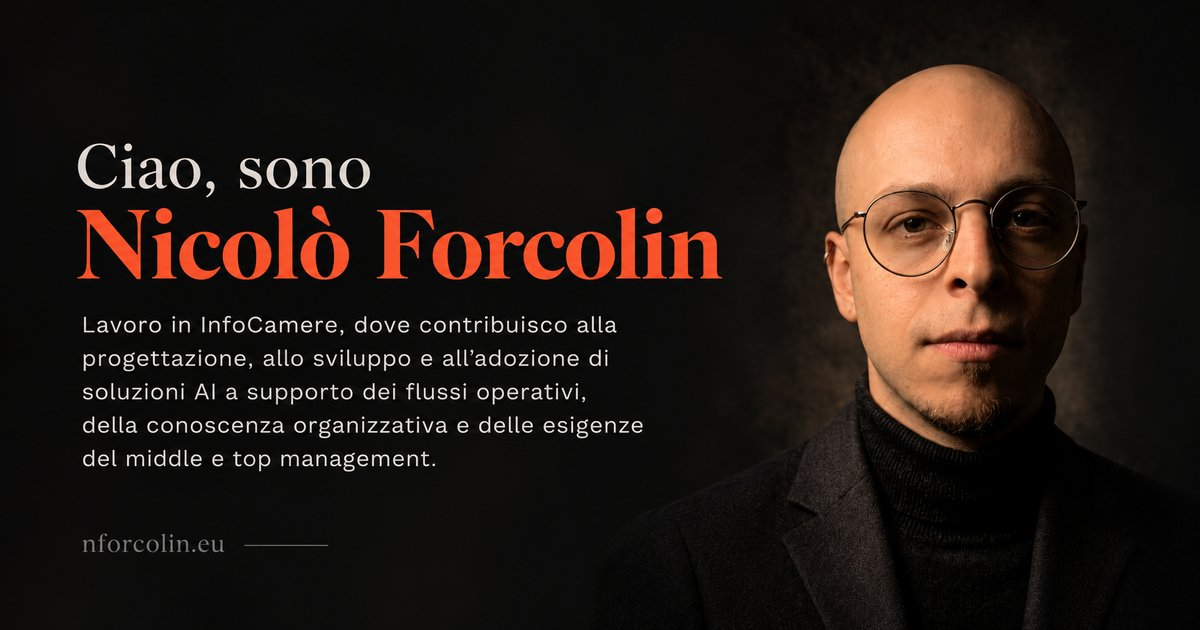
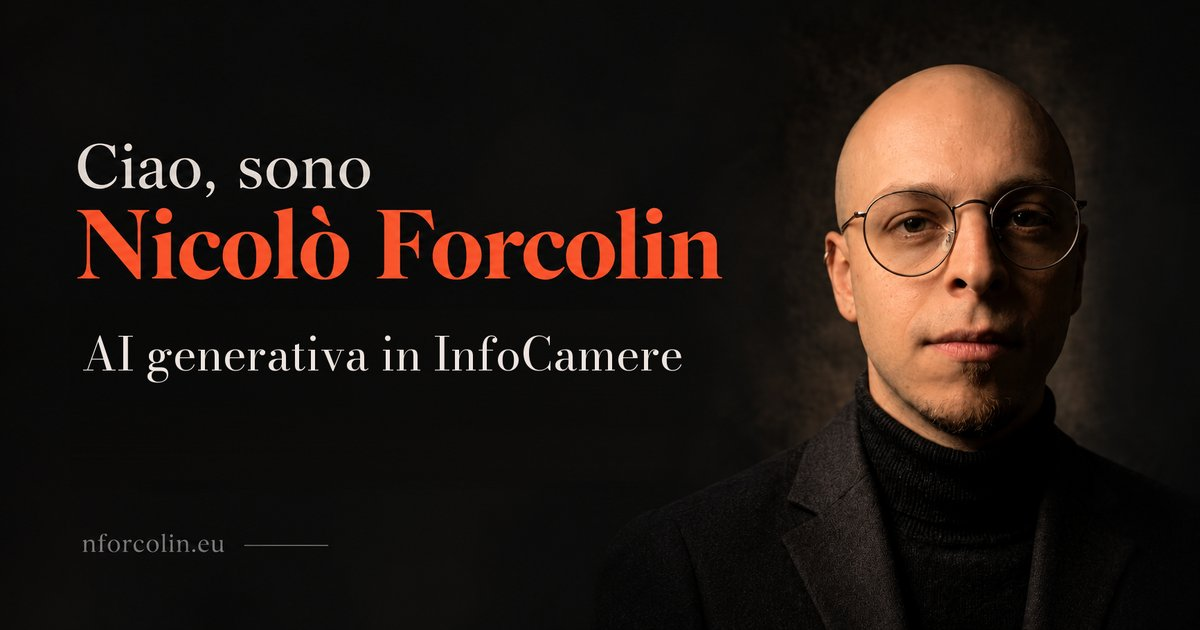
content: remove unapproved internal InfoCamere metrics
The internal figures were not approved for publication:
- 13 people in the Operating Unit, 4 hours and 2.5 hours saved,
  35 colleagues, zero cost vs more expensive alternatives
- Replaced with qualitative wording in IT and EN, static HTML and i18n
- og-linkedin.jpg rebuilt: old paragraph removed, new line
  "AI generativa in InfoCamere" set in Bodoni Moda (site font)
- Regression test fails the build if those figures come back

Claude-Session: https://claude.ai/code/session_0117AcoBap8EG9nBtxEV3N1i

Changed region(s): [[0.0617, 0.4825, 0.5858, 0.6333], [0.0617, 0.6635, 0.555, 0.754]]

diff --git a/script.js b/script.js
@@ -38,7 +38,7 @@
       rag_fig_src4:"Procedure",
       how_lead:"Il sistema integra contenuti aziendali autorizzati, li rende ricercabili e fornisce risposte con riferimenti alle fonti.",
       case_how_label:"Come funziona",
-      c1_feedback:"Oggi lo strumento è usato da un’intera Unità Operativa, 13 persone compreso il Responsabile, che ne danno un riscontro positivo.",
+      c1_feedback:"Oggi lo strumento è usato da un’intera Unità Operativa, che ne dà un riscontro positivo.",
       case_issues_label:"Problematiche e feedback",
       outside_desc:"Audiofilo e musicista.",
       outside_label:"Fuori dal lavoro",
@@ -54,11 +54,11 @@
       nf_error:"Se pensi che sia un errore, scrivimi:",
       sec_percorso:"Percorso",
       xp5_link:"Vedi le iniziative",
-      xp5_desc:"Su richiesta di 35 colleghi li ho affiancati, in gruppo e singolarmente, nell’uso dell’AI: i loro tool in produzione sono migliorati, più strumenti sono stati riuniti in uno solo e sono arrivate nuove richieste. Sono Social Ambassador di InfoCamere e nel 2026 ho fornito advisory sull’AI al CEO di DABO.",
+      xp5_desc:"Su richiesta di colleghi di altre Unità li ho affiancati, in gruppo e singolarmente, nell’uso dell’AI: i loro tool in produzione sono migliorati, più strumenti sono stati riuniti in uno solo e sono arrivate nuove richieste. Sono Social Ambassador di InfoCamere e nel 2026 ho fornito advisory sull’AI al CEO di DABO.",
       xp5_title:"Advisory e adozione dell’AI",
       xp5_period:"Dal 2025",
       xp4_link:"Leggi il progetto RAG",
-      xp4_desc:"Con il mio Responsabile ho definito le esigenze operative; ho scelto lo strumento, realizzato e messo in produzione due sistemi RAG, li ho unificati e ne seguo fonti, webapp, test e adozione, coordinandomi con altre Unità e con il middle e top management. Oggi lo usa un’intera Unità Operativa e su una criticità fa risparmiare 4 ore nella gestione e 2 ore e mezza nell’analisi post evento. In parallelo ho condotto una sperimentazione di modelli AI in locale.",
+      xp4_desc:"Con il mio Responsabile ho definito le esigenze operative; ho scelto lo strumento, realizzato e messo in produzione due sistemi RAG, li ho unificati e ne seguo fonti, webapp, test e adozione, coordinandomi con altre Unità e con il middle e top management. Oggi lo usa un’intera Unità Operativa e riduce il tempo per gestire una criticità e per l’analisi post evento. In parallelo ho condotto una sperimentazione di modelli AI in locale.",
       xp4_title:"Responsabile del RAG aziendale, InfoCamere",
       xp4_period:"Dal 2026",
       xp3_desc:"Supporto operativo all’infrastruttura IT del sistema camerale italiano, con attenzione all’affidabilità del servizio.",
@@ -71,7 +71,7 @@
       xp1_title:"Consulente assicurativo, Assicurazioni Generali",
       xp1_period:"Ott 2020 – Feb 2022",
       adv_internal_desc:"Su loro richiesta, in incontri di gruppo e individuali, ho mostrato come usare i propri strumenti di lavoro e l’AI per rendere più efficaci i tool in produzione. Dopo gli incontri i loro tool sono migliorati, più strumenti sono stati riuniti in uno solo e sono arrivate nuove richieste.",
-      adv_internal_title:"Consulenza interna sull’AI per 35 colleghi",
+      adv_internal_title:"Consulenza interna sull’AI per i colleghi",
       adv_internal_meta:"Dal 2025",
       advisory_internal_label:"Advisory interna",
       advisory_section:"Advisory",
@@ -81,7 +81,7 @@
       c1_role2_k:"In prima persona:",
       c1_role1_v:"definizione delle esigenze operative.",
       c1_role0_k:"Le mie decisioni:",
-      c1_role0_v:"scelta dello strumento, a costo nullo rispetto ad alternative finanziariamente più esose.",
+      c1_role0_v:"scelta dello strumento.",
       c1_role1_k:"Con il mio Responsabile:",
       c1_role4_k:"Con altre Unità, middle e top management:",
       c1_role4_v:"coordinamento del progetto.",
@@ -92,12 +92,12 @@
       credentials_note:"Questi riferimenti distinguono le credenziali dai programmi di community e dallo stato di iscrizione. Il lavoro applicato è documentato nelle pagine dei progetti.",
       hero_greeting:"Ciao, sono Nicolò Forcolin",
       hero_intro:[
-        [{t:"Porto l’AI generativa nel lavoro quotidiano di InfoCamere. Ho scelto e messo in produzione l’assistente AI che oggi usa un’intera Unità Operativa, 13 persone: sulla gestione di una criticità fa risparmiare 4 ore."}],
-        [{t:"Su richiesta di 35 colleghi di altre Unità li ho affiancati nell’uso dell’AI."}]
+        [{t:"Porto l’AI generativa nel lavoro quotidiano di InfoCamere. Ho scelto e messo in produzione l’assistente AI che oggi usa un’intera Unità Operativa per ritrovare in fretta le informazioni quando gestisce una criticità."}],
+        [{t:"Su richiesta di colleghi di altre Unità li ho affiancati nell’uso dell’AI."}]
       ],
       skip_to_content:"Vai al contenuto",
       page_title:"Nicolò Forcolin | AI generativa in InfoCamere",
-      page_description:"Porto l’AI generativa nel lavoro quotidiano di InfoCamere. L’assistente AI che ho scelto e messo in produzione oggi lo usa un’intera Unità Operativa e fa risparmiare 4 ore sulla gestione di una criticità.",
+      page_description:"Porto l’AI generativa nel lavoro quotidiano di InfoCamere. L’assistente AI che ho scelto e messo in produzione oggi lo usa un’intera Unità Operativa per gestire le criticità.",
       rag_step1_kicker:"Fonti iniziali",
       rag_step1_title:"Documentazione e storico delle criticità",
       rag_step1_desc:"Due raccolte di conoscenza consultate separatamente.",
@@ -147,7 +147,7 @@
       sec_localai_title:"AI in locale",
       sec_lavori:"Progetti",
       club_desc:"Community professionale dedicata a relazioni rispettose e a una leadership gentile.",
-      c1_summary:"Ho unificato due sistemi RAG già funzionanti per offrire un unico punto di accesso. Ho integrato diverse fonti aziendali. Nella webapp gli utenti pongono domande in linguaggio naturale: la risposta presenta prima le informazioni utilizzabili subito, poi possibili cause, procedure, casi simili e link alle fonti. Lo strumento scelto ha costo nullo.",
+      c1_summary:"Ho unificato due sistemi RAG già funzionanti per offrire un unico punto di accesso. Ho integrato diverse fonti aziendali. Nella webapp gli utenti pongono domande in linguaggio naturale: la risposta presenta prima le informazioni utilizzabili subito, poi possibili cause, procedure, casi simili e link alle fonti.",
       c2_summary:"Nelle prove esplorative, le risposte miglioravano rispetto ai modelli di partenza e risultavano corrette nella maggior parte delle situazioni osservate. Restavano informazioni inventate, meno frequenti nei modelli più performanti. Queste osservazioni non costituiscono una misura di accuratezza generalizzabile. Era un test: per ora si è scelto di non portarlo avanti.",
       case_results_label:"Risultati e limiti",
       case_problem_label:"Problema",
@@ -155,8 +155,8 @@
       case_learning_label:"Cosa ho imparato",
       case1_title:"RAG aziendale",
       c1_status:"In produzione dal 2026",
-      c1_problem:"Informazioni utili distribuite tra strumenti diversi. Ricostruire il contesto di una criticità richiedeva ricerche separate e tempo, mentre la risoluzione doveva essere rapida. Il costo andava contenuto, rispetto ad alternative finanziariamente più esose.",
-      c1_impact:"4 ore risparmiate sulla gestione di una criticità e 2 ore e mezza sull’analisi post evento, per il Service Desk e l’Incident & Problem Management.",
+      c1_problem:"Informazioni utili distribuite tra strumenti diversi. Ricostruire il contesto di una criticità richiedeva ricerche separate e tempo, mentre la risoluzione doveva essere rapida. Il costo andava contenuto.",
+      c1_impact:"Meno tempo per gestire una criticità e per l’analisi post evento, per il Service Desk e l’Incident & Problem Management.",
       c1_learning:"Dopo il rilascio, alcuni utenti continuavano a cercare a mano. Sono emersi rallentamenti e lacune nei dati: un modello funzionante non bastava. Ho lavorato sulla documentazione operativa e parlando direttamente con gli utenti. Prima di ampliare un RAG servono fonti affidabili e istruzioni chiare sul suo uso.",
       case2_title:"Sperimentazione AI in locale",
       c2_status:"Sperimentazione conclusa nel 2026",
@@ -239,7 +239,7 @@
       rag_fig_src4:"Procedures",
       how_lead:"The system brings together authorised company content, makes it searchable and answers with references to the sources.",
       case_how_label:"How it works",
-      c1_feedback:"Today the tool is used by an entire Operating Unit, 13 people including its Manager, and their feedback is positive.",
+      c1_feedback:"Today the tool is used by an entire Operating Unit, and their feedback is positive.",
       case_issues_label:"Issues and feedback",
       outside_desc:"Audiophile and musician.",
       outside_label:"Outside work",
@@ -255,11 +255,11 @@
       nf_error:"If you think this is a mistake, write to me:",
       sec_percorso:"Experience",
       xp5_link:"See the initiatives",
-      xp5_desc:"At the request of 35 colleagues I supported them, in groups and one to one, in using AI: their production tools improved, several tools were merged into one and new requests came in. I am an InfoCamere Social Ambassador, and in 2026 I advised the CEO of DABO on AI.",
+      xp5_desc:"At the request of colleagues from other units, I supported them, in groups and one to one, in using AI: their production tools improved, several tools were merged into one and new requests came in. I am an InfoCamere Social Ambassador, and in 2026 I advised the CEO of DABO on AI.",
       xp5_title:"AI advisory and adoption",
       xp5_period:"Since 2025",
       xp4_link:"Read the RAG project",
-      xp4_desc:"With my manager I defined the operational needs; I chose the tool, built two RAG systems, put them into production and unified them, and I look after their sources, web app, testing and adoption, working with other units and with middle and top management. Today an entire Operating Unit uses it, and on an incident it saves 4 hours in handling and 2.5 hours in post-incident analysis. In parallel I ran an experiment with local AI models.",
+      xp4_desc:"With my manager I defined the operational needs; I chose the tool, built two RAG systems, put them into production and unified them, and I look after their sources, web app, testing and adoption, working with other units and with middle and top management. Today an entire Operating Unit uses it, and it cuts the time needed to handle an incident and to analyse it afterwards. In parallel I ran an experiment with local AI models.",
       xp4_title:"Enterprise RAG owner, InfoCamere",
       xp4_period:"Since 2026",
       xp3_desc:"Operational support for the IT infrastructure of the Italian Chambers of Commerce system, with a focus on service reliability.",
@@ -272,7 +272,7 @@
       xp1_title:"Insurance advisor, Assicurazioni Generali",
       xp1_period:"Oct 2020 – Feb 2022",
       adv_internal_desc:"At their request, in group and one-to-one sessions, I showed how to use their own work tools and AI to make production tools more effective. Afterwards their tools improved, several tools were merged into one and new requests came in.",
-      adv_internal_title:"Internal AI advisory for 35 colleagues",
+      adv_internal_title:"Internal AI advisory for colleagues",
       adv_internal_meta:"Since 2025",
       advisory_internal_label:"Internal advisory",
       advisory_section:"Advisory",
@@ -282,7 +282,7 @@
       c1_role2_k:"Hands-on:",
       c1_role1_v:"defining the operational needs.",
       c1_role0_k:"My decisions:",
-      c1_role0_v:"choosing the tool, at no cost compared with more expensive alternatives.",
+      c1_role0_v:"choosing the tool.",
       c1_role1_k:"With my manager:",
       c1_role4_k:"With other units, middle and top management:",
       c1_role4_v:"project coordination.",
@@ -293,12 +293,12 @@
       credentials_note:"These references distinguish credentials from community programmes and membership status. Applied work is documented on the project pages.",
       hero_greeting:"Hi, I’m Nicolò Forcolin",
       hero_intro:[
-        [{t:"I bring generative AI into everyday work at InfoCamere. I chose and put into production the AI assistant that an entire Operating Unit of 13 people now uses: it saves 4 hours when handling an incident."}],
-        [{t:"At the request of 35 colleagues from other units, I supported them in using AI."}]
+        [{t:"I bring generative AI into everyday work at InfoCamere. I chose and put into production the AI assistant an entire Operating Unit now uses to find information quickly when handling an incident."}],
+        [{t:"At the request of colleagues from other units, I supported them in using AI."}]
       ],
       skip_to_content:"Skip to content",
       page_title:"Nicolò Forcolin | Generative AI at InfoCamere",
-      page_description:"I bring generative AI into everyday work at InfoCamere. The AI assistant I chose and put into production is now used by an entire Operating Unit and saves 4 hours when handling an incident.",
+      page_description:"I bring generative AI into everyday work at InfoCamere. The AI assistant I chose and put into production is now used by an entire Operating Unit to handle incidents.",
       rag_step1_kicker:"Initial sources",
       rag_step1_title:"Documentation and incident history",
       rag_step1_desc:"Two separate knowledge collections.",
@@ -348,7 +348,7 @@
       sec_localai_title:"Local AI",
       sec_lavori:"Projects",
       club_desc:"A professional community dedicated to respectful relationships and kind leadership.",
-      c1_summary:"I unified two working RAG systems into one access point, integrating several company sources. Users ask questions in natural language through a web app. Responses prioritize actionable information, followed by possible causes, procedures, similar cases and links to original sources. The chosen tool comes at no cost.",
+      c1_summary:"I unified two working RAG systems into one access point, integrating several company sources. Users ask questions in natural language through a web app. Responses prioritize actionable information, followed by possible causes, procedures, similar cases and links to original sources.",
       c2_summary:"In exploratory trials, responses improved over the base models and were correct in most observed situations. Fabricated information remained, less frequently with higher-performing models. These observations are not a generalisable accuracy measure. It was a test: for now the choice is not to take it further.",
       case_results_label:"Results and limitations",
       case_problem_label:"Problem",
@@ -356,8 +356,8 @@
       case_learning_label:"Learning",
       case1_title:"Enterprise Knowledge Retrieval",
       c1_status:"In production since 2026",
-      c1_problem:"Useful information was scattered across different tools. Reconstructing an incident’s context took separate searches and time, while resolution had to be fast. Cost had to stay low compared with more expensive alternatives.",
-      c1_impact:"4 hours saved when handling an incident and 2.5 hours in post-incident analysis, for the Service Desk and Incident & Problem Management.",
+      c1_problem:"Useful information was scattered across different tools. Reconstructing an incident’s context took separate searches and time, while resolution had to be fast. Cost had to stay low.",
+      c1_impact:"Less time spent handling incidents and analysing them afterwards, for the Service Desk and Incident & Problem Management.",
       c1_learning:"After the release, some users kept searching by hand. Slowdowns and gaps in the data came up: a working model was not enough. I worked on the operating documentation and talked directly with users. Before expanding a RAG you need reliable sources and clear instructions on how to use it.",
       case2_title:"Local AI Experiment",
       c2_status:"Experiment completed in 2026",

diff --git a/rag-aziendale.html b/rag-aziendale.html
@@ -69,20 +69,20 @@
   <header class="page-head">
     <a class="page-back" href="index.html"><span aria-hidden="true">←</span> <span data-i18n="back_to_site">Torna alla home</span></a>
     <h1 class="page-title" data-i18n="case1_title">RAG aziendale</h1>
-    <p class="page-lead" data-i18n="c1_impact">4 ore risparmiate sulla gestione di una criticità e 2 ore e mezza sull’analisi post evento, per il Service Desk e l’Incident &amp; Problem Management.</p>
+    <p class="page-lead" data-i18n="c1_impact">Meno tempo per gestire una criticità e per l’analisi post evento, per il Service Desk e l’Incident &amp; Problem Management.</p>
   </header>
   <div class="page-body">
     <section class="page-block">
       <h2 class="page-block-label" data-i18n="case_problem_label">Problema</h2>
       <div class="page-block-body">
-        <p data-i18n="c1_problem">Informazioni utili distribuite tra strumenti diversi. Ricostruire il contesto di una criticità richiedeva ricerche separate e tempo, mentre la risoluzione doveva essere rapida. Il costo andava contenuto, rispetto ad alternative finanziariamente più esose.</p>
+        <p data-i18n="c1_problem">Informazioni utili distribuite tra strumenti diversi. Ricostruire il contesto di una criticità richiedeva ricerche separate e tempo, mentre la risoluzione doveva essere rapida. Il costo andava contenuto.</p>
       </div>
     </section>
     <section class="page-block">
       <h2 class="page-block-label" data-i18n="case_role_label">Il mio ruolo</h2>
       <div class="page-block-body">
         <ul class="role-list">
-          <li><strong data-i18n="c1_role0_k">Le mie decisioni:</strong> <span data-i18n="c1_role0_v">scelta dello strumento, a costo nullo rispetto ad alternative finanziariamente più esose.</span></li>
+          <li><strong data-i18n="c1_role0_k">Le mie decisioni:</strong> <span data-i18n="c1_role0_v">scelta dello strumento.</span></li>
           <li><strong data-i18n="c1_role1_k">Con il mio Responsabile:</strong> <span data-i18n="c1_role1_v">definizione delle esigenze operative.</span></li>
           <li><strong data-i18n="c1_role4_k">Con altre Unità, middle e top management:</strong> <span data-i18n="c1_role4_v">coordinamento del progetto.</span></li>
           <li><strong data-i18n="c1_role3_k">Con gli utenti:</strong> <span data-i18n="c1_role3_v">test, gestione dei problemi, raccolta dei feedback e adozione.</span></li>
@@ -93,7 +93,7 @@
     <section class="page-block">
       <h2 class="page-block-label" data-i18n="case_solution_label">Soluzione</h2>
       <div class="page-block-body">
-        <p data-i18n="c1_summary">Ho unificato due sistemi RAG già funzionanti per offrire un unico punto di accesso. Ho integrato diverse fonti aziendali. Nella webapp gli utenti pongono domande in linguaggio naturale: la risposta presenta prima le informazioni utilizzabili subito, poi possibili cause, procedure, casi simili e link alle fonti. Lo strumento scelto ha costo nullo.</p>
+        <p data-i18n="c1_summary">Ho unificato due sistemi RAG già funzionanti per offrire un unico punto di accesso. Ho integrato diverse fonti aziendali. Nella webapp gli utenti pongono domande in linguaggio naturale: la risposta presenta prima le informazioni utilizzabili subito, poi possibili cause, procedure, casi simili e link alle fonti.</p>
       </div>
     </section>
     <section class="page-block page-block-wide">
@@ -122,7 +122,7 @@
       <h2 class="page-block-label" data-i18n="case_issues_label">Problematiche e feedback</h2>
       <div class="page-block-body">
         <p data-i18n="c1_learning">Dopo il rilascio, alcuni utenti continuavano a cercare a mano. Sono emersi rallentamenti e lacune nei dati: un modello funzionante non bastava. Ho lavorato sulla documentazione operativa e parlando direttamente con gli utenti. Prima di ampliare un RAG servono fonti affidabili e istruzioni chiare sul suo uso.</p>
-        <p data-i18n="c1_feedback">Oggi lo strumento è usato da un’intera Unità Operativa, 13 persone compreso il Responsabile, che ne danno un riscontro positivo.</p>
+        <p data-i18n="c1_feedback">Oggi lo strumento è usato da un’intera Unità Operativa, che ne dà un riscontro positivo.</p>
       </div>
     </section>
     <section class="page-block page-block-wide">

diff --git a/index.html b/index.html
@@ -5,7 +5,7 @@
 <meta name="viewport" content="width=device-width, initial-scale=1.0">
 <meta name="theme-color" content="#0D0D0E">
 <title>Nicolò Forcolin | AI generativa in InfoCamere</title>
-<meta name="description" content="Porto l’AI generativa nel lavoro quotidiano di InfoCamere. L’assistente AI che ho scelto e messo in produzione oggi lo usa un’intera Unità Operativa e fa risparmiare 4 ore sulla gestione di una criticità.">
+<meta name="description" content="Porto l’AI generativa nel lavoro quotidiano di InfoCamere. L’assistente AI che ho scelto e messo in produzione oggi lo usa un’intera Unità Operativa per gestire le criticità.">
 <link rel="canonical" href="https://nforcolin.eu/">
 
 <link rel="icon" href="favicon.svg" type="image/svg+xml">
@@ -19,13 +19,13 @@
 <meta property="og:site_name" content="Nicolò Forcolin">
 <meta property="og:locale" content="it_IT">
 <meta property="og:title" content="Nicolò Forcolin | AI generativa in InfoCamere">
-<meta property="og:description" content="Porto l’AI generativa nel lavoro quotidiano di InfoCamere. L’assistente AI che ho scelto e messo in produzione oggi lo usa un’intera Unità Operativa e fa risparmiare 4 ore sulla gestione di una criticità.">
+<meta property="og:description" content="Porto l’AI generativa nel lavoro quotidiano di InfoCamere. L’assistente AI che ho scelto e messo in produzione oggi lo usa un’intera Unità Operativa per gestire le criticità.">
 <meta property="og:image" content="https://nforcolin.eu/og-linkedin.jpg">
 <meta property="og:image:width" content="1200">
 <meta property="og:image:height" content="630">
 <meta name="twitter:card" content="summary_large_image">
 <meta name="twitter:title" content="Nicolò Forcolin | AI generativa in InfoCamere">
-<meta name="twitter:description" content="Porto l’AI generativa nel lavoro quotidiano di InfoCamere. L’assistente AI che ho scelto e messo in produzione oggi lo usa un’intera Unità Operativa e fa risparmiare 4 ore sulla gestione di una criticità.">
+<meta name="twitter:description" content="Porto l’AI generativa nel lavoro quotidiano di InfoCamere. L’assistente AI che ho scelto e messo in produzione oggi lo usa un’intera Unità Operativa per gestire le criticità.">
 <meta name="twitter:image" content="https://nforcolin.eu/og-linkedin.jpg">
 
 <script type="application/ld+json">
@@ -87,7 +87,7 @@
   <div class="hero-inner wrap">
     <div class="hero-overlay">
       <h1 class="hero-name" id="hero-name" data-i18n="hero_greeting">Ciao, sono Nicolò Forcolin</h1>
-      <div class="hero-intro" id="heroIntro"><p>Porto l’AI generativa nel lavoro quotidiano di InfoCamere. Ho scelto e messo in produzione l’assistente AI che oggi usa un’intera Unità Operativa, 13 persone: sulla gestione di una criticità fa risparmiare 4 ore.</p><p>Su richiesta di 35 colleghi di altre Unità li ho affiancati nell’uso dell’AI.</p></div>
+      <div class="hero-intro" id="heroIntro"><p>Porto l’AI generativa nel lavoro quotidiano di InfoCamere. Ho scelto e messo in produzione l’assistente AI che oggi usa un’intera Unità Operativa per ritrovare in fretta le informazioni quando gestisce una criticità.</p><p>Su richiesta di colleghi di altre Unità li ho affiancati nell’uso dell’AI.</p></div>
       <div class="hero-cta-row">
         <a class="hero-link" href="rag-aziendale.html"><span data-i18n="hero_cta1">Progetto RAG</span></a>
         <a class="hero-link" href="progetti.html" data-i18n="hero_cta2">Progetti ed Iniziative</a>

diff --git a/percorso.html b/percorso.html
@@ -96,7 +96,7 @@
       <p class="page-block-label" data-i18n="xp5_period">Dal 2025</p>
       <div class="page-block-body">
         <h2 class="item-title" data-i18n="xp5_title">Advisory e adozione dell’AI</h2>
-        <p data-i18n="xp5_desc">Su richiesta di 35 colleghi li ho affiancati, in gruppo e singolarmente, nell’uso dell’AI: i loro tool in produzione sono migliorati, più strumenti sono stati riuniti in uno solo e sono arrivate nuove richieste. Sono Social Ambassador di InfoCamere e nel 2026 ho fornito advisory sull’AI al CEO di DABO.</p>
+        <p data-i18n="xp5_desc">Su richiesta di colleghi di altre Unità li ho affiancati, in gruppo e singolarmente, nell’uso dell’AI: i loro tool in produzione sono migliorati, più strumenti sono stati riuniti in uno solo e sono arrivate nuove richieste. Sono Social Ambassador di InfoCamere e nel 2026 ho fornito advisory sull’AI al CEO di DABO.</p>
         <p class="item-link"><a href="iniziative.html" data-i18n="xp5_link">Vedi le iniziative</a></p>
       </div>
     </li>
@@ -104,7 +104,7 @@
       <p class="page-block-label" data-i18n="xp4_period">Dal 2026</p>
       <div class="page-block-body">
         <h2 class="item-title" data-i18n="xp4_title">Responsabile del RAG aziendale, InfoCamere</h2>
-        <p data-i18n="xp4_desc">Con il mio Responsabile ho definito le esigenze operative; ho scelto lo strumento, realizzato e messo in produzione due sistemi RAG, li ho unificati e ne seguo fonti, webapp, test e adozione, coordinandomi con altre Unità e con il middle e top management. Oggi lo usa un’intera Unità Operativa e su una criticità fa risparmiare 4 ore nella gestione e 2 ore e mezza nell’analisi post evento. In parallelo ho condotto una sperimentazione di modelli AI in locale.</p>
+        <p data-i18n="xp4_desc">Con il mio Responsabile ho definito le esigenze operative; ho scelto lo strumento, realizzato e messo in produzione due sistemi RAG, li ho unificati e ne seguo fonti, webapp, test e adozione, coordinandomi con altre Unità e con il middle e top management. Oggi lo usa un’intera Unità Operativa e riduce il tempo per gestire una criticità e per l’analisi post evento. In parallelo ho condotto una sperimentazione di modelli AI in locale.</p>
         <p class="item-link"><a href="rag-aziendale.html" data-i18n="xp4_link">Leggi il progetto RAG</a></p>
       </div>
     </li>

diff --git a/tests/site-regression.test.js b/tests/site-regression.test.js
@@ -92,4 +92,7 @@ assert(ogMatch && !/%20|\s/.test(ogMatch[1]), 'og:image must point to a file wit
 assert(fs.statSync(path.join(root, ogMatch[1])).size < 300 * 1024, 'og:image must stay under 300 KB for social previews');
 const vercel = JSON.parse(read('vercel.json'));
 assert((vercel.redirects || []).some(r => r.has?.some(h => h.type === 'host' && h.value === 'www.nforcolin.eu') && r.destination.startsWith('https://nforcolin.eu/') && r.permanent), 'www must redirect permanently to the apex domain');
+// Internal InfoCamere metrics are not approved for publication.
+const internalData = /13 (persone|people)|4 (ore|hours)|ore e mezza|2\.5 hours|35 (colleghi|colleagues)|costo nullo|at no cost|esose|more expensive alternatives/;
+for (const file of [...pages, 'script.js']) assert(!internalData.test(read(file)), file + ': contains unapproved internal metrics');
 console.log('Site regression checks passed');

diff --git a/progetti.html b/progetti.html
@@ -92,7 +92,7 @@
       <h2 class="page-block-label" data-i18n="sec_experiences">Iniziative</h2>
       <div class="page-block-body">
         <article class="item">
-          <h3 class="item-title" data-i18n="adv_internal_title">Consulenza interna sull’AI per 35 colleghi</h3>
+          <h3 class="item-title" data-i18n="adv_internal_title">Consulenza interna sull’AI per i colleghi</h3>
           <p class="item-meta" data-i18n="advisory_internal_label">Advisory interna</p>
           <p class="item-desc" data-i18n="adv_internal_desc">Su loro richiesta, in incontri di gruppo e individuali, ho mostrato come usare i propri strumenti di lavoro e l’AI per rendere più efficaci i tool in produzione. Dopo gli incontri i loro tool sono migliorati, più strumenti sono stati riuniti in uno solo e sono arrivate nuove richieste.</p>
         </article>

diff --git a/iniziative.html b/iniziative.html
@@ -75,7 +75,7 @@
       <h2 class="page-block-label" data-i18n="advisory_section">Advisory</h2>
       <div class="page-block-body">
         <article class="item">
-          <h3 class="item-title" data-i18n="adv_internal_title">Consulenza interna sull’AI per 35 colleghi</h3>
+          <h3 class="item-title" data-i18n="adv_internal_title">Consulenza interna sull’AI per i colleghi</h3>
           <p class="item-meta" data-i18n="adv_internal_meta">Dal 2025</p>
           <p class="item-desc" data-i18n="adv_internal_desc">Su loro richiesta, in incontri di gruppo e individuali, ho mostrato come usare i propri strumenti di lavoro e l’AI per rendere più efficaci i tool in produzione. Dopo gli incontri i loro tool sono migliorati, più strumenti sono stati riuniti in uno solo e sono arrivate nuove richieste.</p>
         </article>
